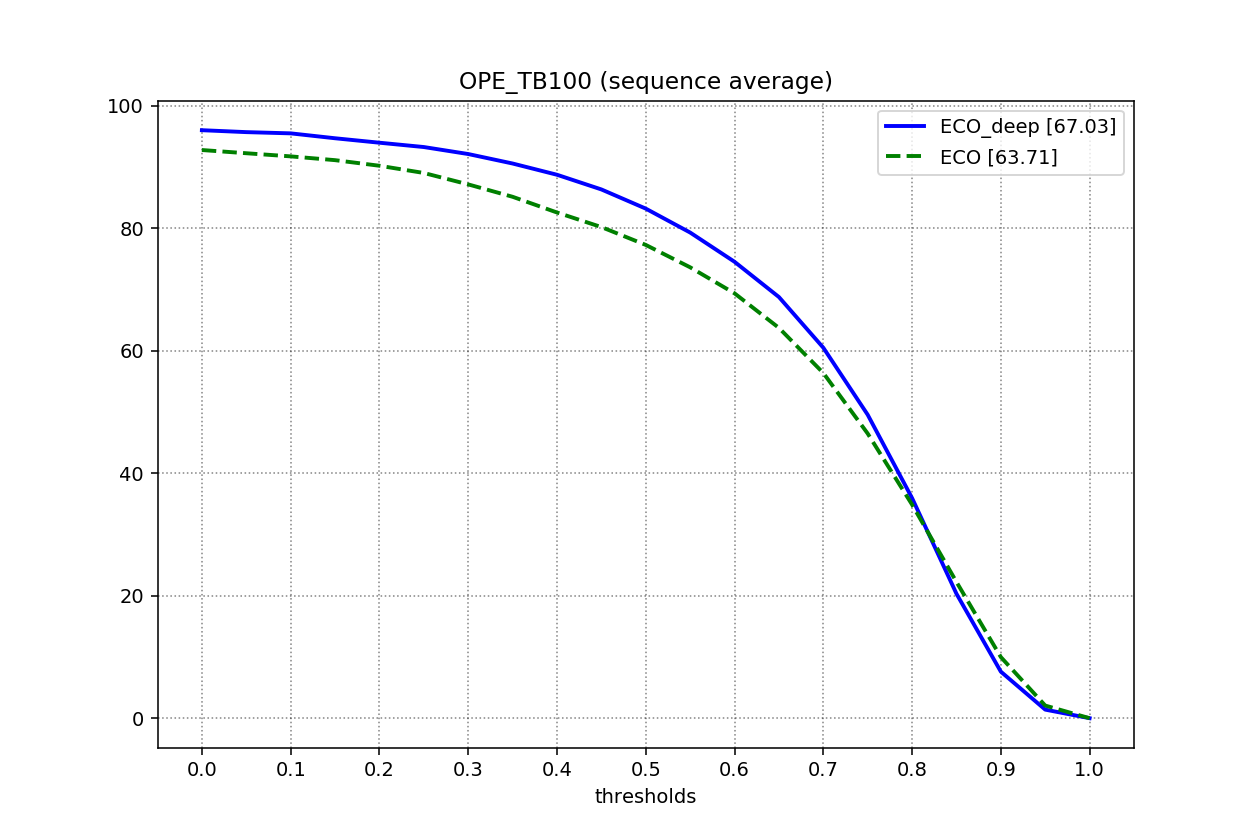
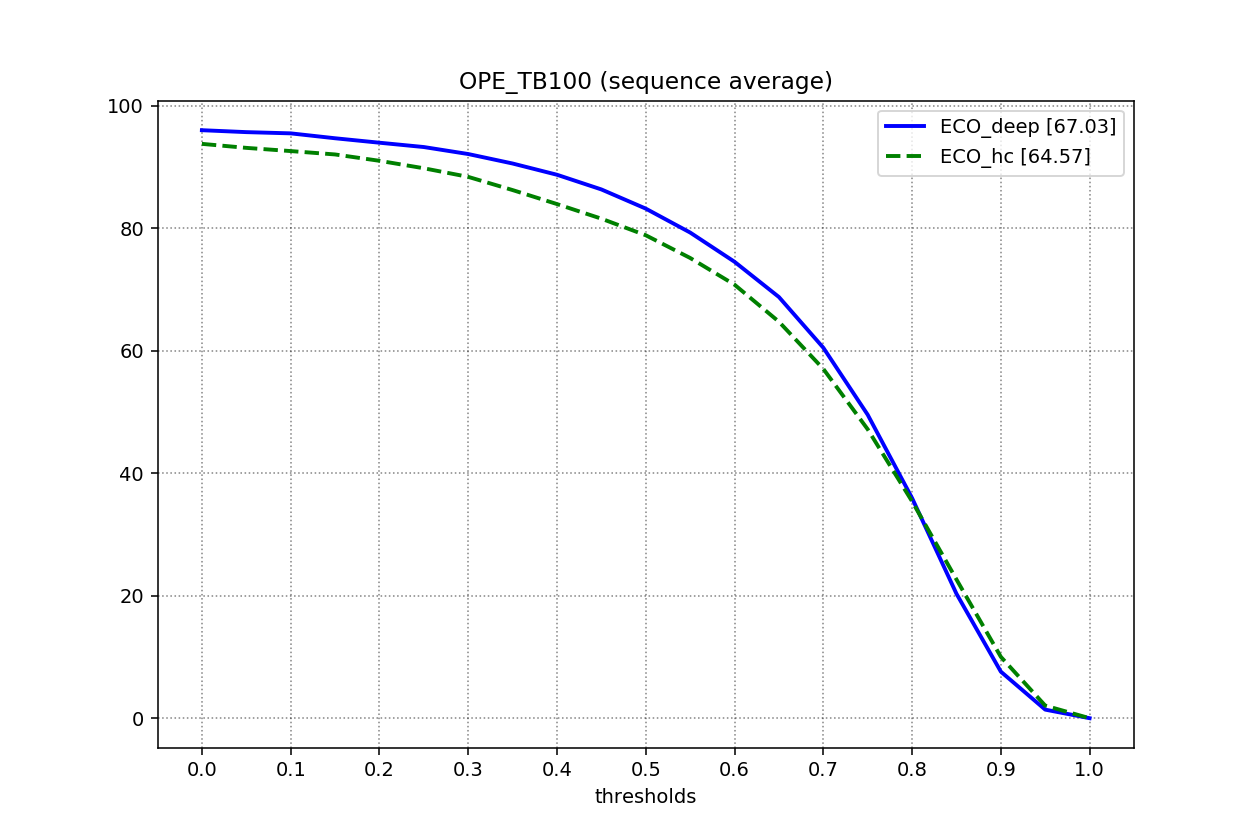
eco_hc auc score improve

diff --git a/eco/tracker.py b/eco/tracker.py
@@ -4,7 +4,8 @@ import scipy
 import time
 
 from scipy import signal
-from numpy.fft import fftshift
+# from numpy.fft import fftshift
+from pyfftw.interfaces.numpy_fft import fftshift
 
 from .config import config
 from .features import FHogFeature, TableFeature, mround, ResNet50Feature, VGG16Feature
@@ -27,16 +28,16 @@ class ECOTracker:
             get the cosine window
         """
         cos_window = signal.hann(int(size[0]+2))[:, np.newaxis].dot(signal.hann(int(size[1]+2))[np.newaxis, :])
-        cos_window = cos_window[1:-1, 1:-1][:, :, np.newaxis, np.newaxis]
+        cos_window = cos_window[1:-1, 1:-1][:, :, np.newaxis, np.newaxis].astype(np.float32)
         return cos_window
 
     def _get_interp_fourier(self, sz):
         """
             compute the fourier series of the interpolation function.
         """
-        f1 = np.arange(-(sz[0]-1) / 2, (sz[0]-1)/2+1, dtype=np.float64)[:, np.newaxis] / sz[0]
+        f1 = np.arange(-(sz[0]-1) / 2, (sz[0]-1)/2+1, dtype=np.float32)[:, np.newaxis] / sz[0]
         interp1_fs = np.real(cubic_spline_fourier(f1, config.interp_bicubic_a) / sz[0])
-        f2 = np.arange(-(sz[1]-1) / 2, (sz[1]-1)/2+1, dtype=np.float64)[np.newaxis, :] / sz[1]
+        f2 = np.arange(-(sz[1]-1) / 2, (sz[1]-1)/2+1, dtype=np.float32)[np.newaxis, :] / sz[1]
         interp2_fs = np.real(cubic_spline_fourier(f2, config.interp_bicubic_a) / sz[1])
         if config.interp_centering:
             f1 = np.arange(-(sz[0]-1) / 2, (sz[0]-1)/2+1, dtype=np.float32)[:, np.newaxis]
@@ -199,8 +200,10 @@ class ECOTracker:
         self._pad_sz = [((self._output_sz - filter_sz_) / 2).astype(np.int32) for filter_sz_ in filter_sz]
 
         # compute the fourier series indices and their transposes
-        self._ky = [np.arange(-np.ceil(sz[0]-1)/2, np.floor((sz[0]-1)/2)+1) for sz in filter_sz]
-        self._kx = [np.arange(-np.ceil(sz[1]-1)/2, 1) for sz in filter_sz]
+        self._ky = [np.arange(-np.ceil(sz[0]-1)/2, np.floor((sz[0]-1)/2)+1, dtype=np.float32)
+                        for sz in filter_sz]
+        self._kx = [np.arange(-np.ceil(sz[1]-1)/2, 1, dtype=np.float32)
+                        for sz in filter_sz]
 
         # construct the gaussian label function using poisson formula
         sig_y = np.sqrt(np.prod(np.floor(self._base_target_sz))) * config.output_sigma_factor * (self._output_sz / self._img_sample_sz)
@@ -274,7 +277,7 @@ class ECOTracker:
 
         for i in range(self._num_feature_blocks):
             self._samplesf[i] = np.zeros((int(filter_sz[i, 0]), int((filter_sz[i, 1]+1)/2),
-                sample_dim[i], config.num_samples), dtype=np.complex128)
+                sample_dim[i], config.num_samples), dtype=np.complex64)
 
         # allocate
         self._frames_since_last_train = np.inf
@@ -318,7 +321,7 @@ class ECOTracker:
         # init the filter with zeros
         for i in range(self._num_feature_blocks):
             self._hf[0][i] = np.zeros((int(filter_sz[i, 0]), int((filter_sz[i, 1]+1)/2),
-                int(sample_dim[i]), 1), dtype=np.complex128)
+                int(sample_dim[i]), 1), dtype=np.complex64)
 
         if config.update_projection_matrix:
             # init Gauss-Newton optimization of the filter and projection matrix
@@ -333,6 +336,7 @@ class ECOTracker:
                                                                        init_CG_opts)
             # re-project and insert training sample
             xlf_proj = self._proj_sample(xlf, self._proj_matrix)
+            # self._sample_energy = [np.real(x * np.conj(x)) for x in xlf_proj]
             for i in range(self._num_feature_blocks):
                 self._samplesf[i][:, :, :, 0:1] = xlf_proj[i]
 

diff --git a/eco/config/otb_hc_config.py b/eco/config/otb_hc_config.py
@@ -39,7 +39,7 @@ class OTBHCConfig:
     clamp_position = False              # clamp the target position to be inside the image
 
     # learning parameters
-    output_sigma_factor = 1 / 20.       # label function sigma
+    output_sigma_factor = 1 / 16.       # label function sigma
     learning_rate = 0.009               # learning rate
     num_samples = 30                    # maximum number of stored training samples
     sample_replace_startegy = 'lowest_prior' # which sample to replace when the memory is full
@@ -61,8 +61,8 @@ class OTBHCConfig:
 
     # CG paramters
     CG_iter = 5                         # the number of Conjugate Gradient iterations in each update after the first time
-    init_CG_iter = 10 * 15              # the total number of Conjugate Gradient iterations used in the first time
-    init_GN_iter = 10                   # the number of Gauss-Netwon iterations used in the first frame (only if the projection matrix is updated)
+    init_CG_iter = 5 * 15              # the total number of Conjugate Gradient iterations used in the first time
+    init_GN_iter = 5                   # the number of Gauss-Netwon iterations used in the first frame (only if the projection matrix is updated)
     CG_use_FR = False                   # use the Fletcher-Reeves or Polak-Ribiere formula in the Conjugate Gradient
     CG_standard_alpha = True            # use the standard formula for computing the step length in Conjugate Gradient
     CG_forgetting_rate = 50             # forgetting rate of the last conjugate direction
@@ -84,12 +84,12 @@ class OTBHCConfig:
     interp_windowing = False            # do additional windowing on the Fourier coefficients of the kernel
 
     # scale parameters
-    number_of_scales = 5                # number of scales to run the detector
-    scale_step = 1.01                   # the scale factor
+    # number_of_scales = 5                # number of scales to run the detector
+    # scale_step = 1.01                   # the scale factor
     use_scale_filter = True             # use the fDSST scale filter or not 
 
     # only used if use_scale_filter == true
-    scale_sigma_factor = 1 / 18.        # scale label function sigma
+    scale_sigma_factor = 1 / 16.        # scale label function sigma
     scale_learning_rate = 0.025         # scale filter learning rate
     number_of_scales_filter = 17        # number of scales
     number_of_interp_scales = 33        # number of interpolated scales

diff --git a/eco/scale_filter.py b/eco/scale_filter.py
@@ -1,7 +1,8 @@
 import numpy as np
 import scipy
 import cv2
-from numpy.fft import fft, ifft
+# from numpy.fft import fft, ifft
+from pyfftw.interfaces.numpy_fft import fft, ifft
 from scipy import signal
 from .config import config
 from .fourier_tools import resize_dft
@@ -29,7 +30,7 @@ class ScaleFilter:
         self.interp_scale_factors = scale_step ** interp_scale_exp_shift
 
         ys = np.exp(-0.5 * (scale_exp_shift ** 2) / (scale_sigma ** 2))
-        self.yf = np.real(fft(ys))[np.newaxis, :].astype(np.float32)
+        self.yf = np.real(fft(ys))[np.newaxis, :]
         self.window = signal.hann(ys.shape[0])[np.newaxis, :].astype(np.float32)
 
         # make sure the scale model is not to large, to save computation time
@@ -60,9 +61,9 @@ class ScaleFilter:
         xs = self.basis.dot(xs) * self.window
 
         # get scores
-        xsf = fft(xs, axis=1).astype(np.complex64)
+        xsf = fft(xs, axis=1)
         scale_responsef = np.sum(self.sf_num * xsf, 0) / (self.sf_den + config.lamBda)
-        interp_scale_response = np.real(ifft(resize_dft(scale_responsef, config.number_of_interp_scales))).astype(np.float32)
+        interp_scale_response = np.real(ifft(resize_dft(scale_responsef, config.number_of_interp_scales)))
         recovered_scale_index = np.argmax(interp_scale_response)
         if config.do_poly_interp:
             # fit a quadratic polynomial to get a refined scale estimate
@@ -104,12 +105,12 @@ class ScaleFilter:
 
         # compute numerator
         feat_proj = self.basis.dot(self.s_num) * self.window
-        sf_proj = fft(feat_proj, axis=1).astype(np.complex64)
+        sf_proj = fft(feat_proj, axis=1)
         self.sf_num = self.yf * np.conj(sf_proj)
 
         # update denominator
         xs = scale_basis_den.T.dot(xs) * self.window
-        xsf = fft(xs, axis=1).astype(np.complex64)
+        xsf = fft(xs, axis=1)
         new_sf_den = np.sum(np.real(xsf * np.conj(xsf)), 0)
         if first_frame:
             self.sf_den = new_sf_den

diff --git a/eco/fourier_tools.py b/eco/fourier_tools.py
@@ -1,5 +1,6 @@
 import numpy as np
-from numpy.fft import fftshift, fft, ifft, ifftshift
+# from numpy.fft import fftshift, ifftshift#, fft, ifft
+from pyfftw.interfaces.numpy_fft import fft, ifft, fftshift, ifftshift
 
 np.seterr(divide='ignore', invalid='ignore')
 
@@ -19,7 +20,7 @@ def cfft2(x):
         out_shape[0] =  in_shape[0] + (in_shape[0] + 1) % 2
         out_shape[1] =  in_shape[1] + (in_shape[1] + 1) % 2
         out_shape = tuple(out_shape)
-        xf = np.zeros(out_shape, dtype=np.complex128)
+        xf = np.zeros(out_shape, dtype=np.complex64)
         xf[:in_shape[0], :in_shape[1]] = fftshift(fftshift(fft2(x), 0), 1)
         if out_shape[0] != in_shape[0]:
             xf[-1,:] = np.conj(xf[0,::-1])

diff --git a/bin/demo_ECO_hc.py b/bin/demo_ECO_hc.py
@@ -13,8 +13,8 @@ def main(video_dir):
     # load videos
     filenames = sorted(glob.glob(os.path.join(video_dir, "img/*.jpg")),
            key=lambda x: int(os.path.basename(x).split('.')[0]))
-    frames = [cv2.cvtColor(cv2.imread(filename), cv2.COLOR_BGR2RGB) for filename in filenames]
-    # frames = [np.array(Image.open(filename)) for filename in filenames]
+    # frames = [cv2.cvtColor(cv2.imread(filename), cv2.COLOR_BGR2RGB) for filename in filenames]
+    frames = [np.array(Image.open(filename)) for filename in filenames]
     height, width = frames[0].shape[:2]
     if len(frames[0].shape) == 3:
         is_color = True

diff --git a/eco/config/otb_deep_config.py b/eco/config/otb_deep_config.py
@@ -22,12 +22,12 @@ class OTBDeepConfig:
     #              # "nDim": 10
     #              }
 
-    # cnn_params = {'fname': "cnn-resnet50",
-    #               'compressed_dim': [16, 64]
-    #               }
-    cnn_params = {'fname': "cnn-vgg16",
+    cnn_params = {'fname': "cnn-resnet50",
                   'compressed_dim': [16, 64]
                   }
+    # cnn_params = {'fname': "cnn-vgg16",
+    #               'compressed_dim': [16, 64]
+    #               }
     features = [fhog_params, cnn_params]
 
     # feature parameters

diff --git a/eco/features/features.py b/eco/features/features.py
@@ -28,7 +28,6 @@ class Feature:
             num_odd_dimensions = np.sum((feature_sz_choices % 2) == 1, axis=(0,1))
             best_choice = np.argmax(num_odd_dimensions.flatten())
             img_sample_sz = mround(new_img_sample_sz + best_choice)
-            # img_sample_sz = img_sample_sz // max_cell_size * max_cell_size
 
         self.sample_sz = img_sample_sz
         self.data_sz = [img_sample_sz // self._cell_size]

diff --git a/eco/config/config.py b/eco/config/config.py
@@ -4,5 +4,5 @@ from .otb_hc_config import OTBHCConfig
 
 
 # config = DemoConfig()
-config = OTBDeepConfig()
-#config = OTBHCConfig()
+# config = OTBDeepConfig()
+config = OTBHCConfig()

diff --git a/README.md b/README.md
@@ -15,7 +15,7 @@ python bin/demo_ECO_hc.py --video_dir path/to/video
 | Tracker  | AUC           |
 | -------- | ------------- |
 | ECO_deep | 67.0(vs 69.1) |
-| ECO_hc   | 63.7(vs 65.0) |
+| ECO_hc   | 64.6(vs 65.0) |
 
 ![](./figure/otb100.png)
 
